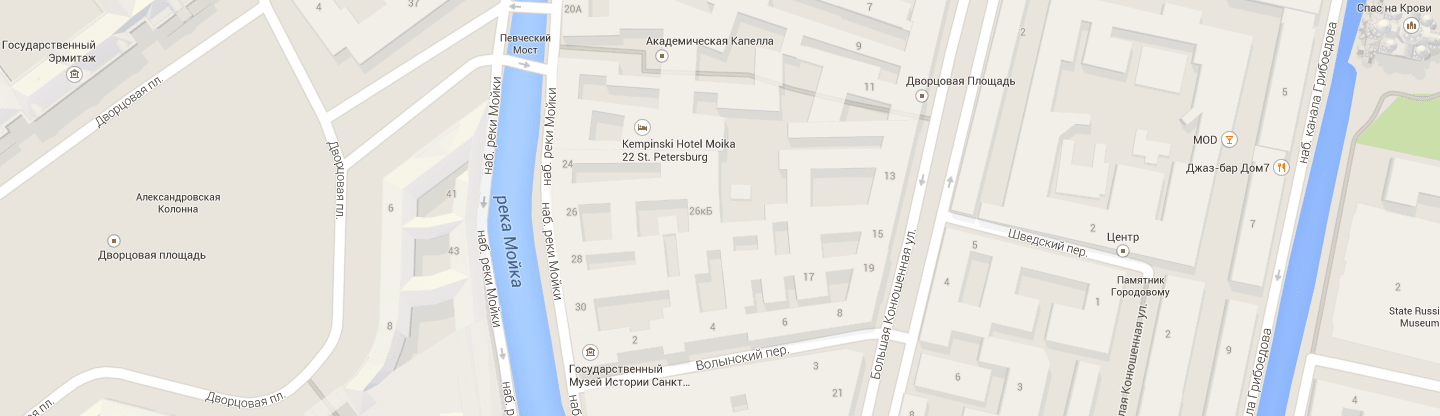
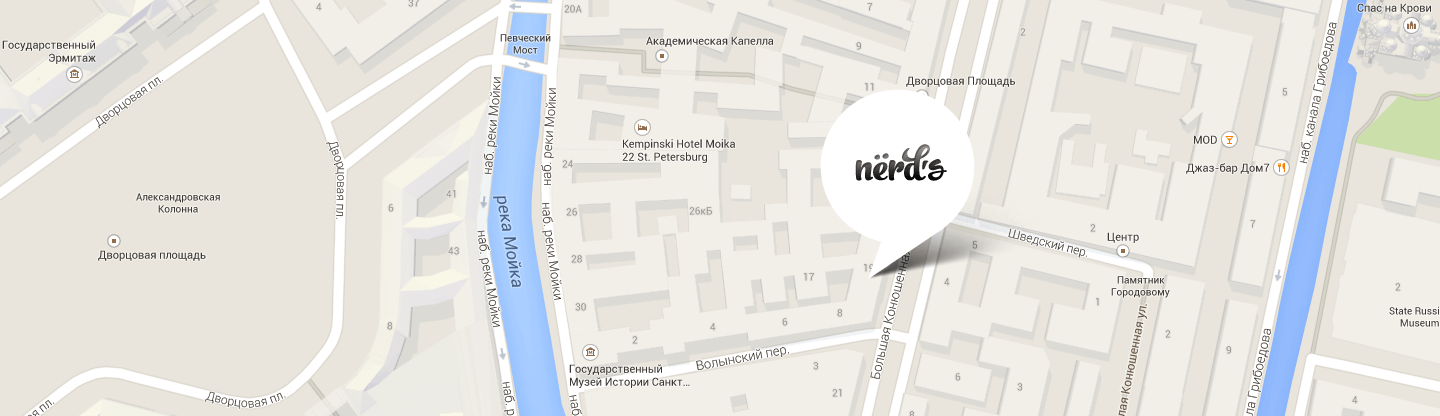
добавляет форму

Changed region(s): [[0.5625, 0.2188, 0.6875, 0.6562]]

diff --git a/css/style.css b/css/style.css
@@ -1172,24 +1172,22 @@ input[type="radio"].visually-hidden {
 
   height: 416px;
   overflow: hidden;
-
-  background: url("../img/map.png") no-repeat 50% 50%;
 }
 
-.contacts .container {
-  position: relative;
-}
-
-.map-marker {
+.map {
   position: absolute;
-  top: 90px;
-  right: 270px;
+  top: 0;
+  left: 50%;
+
+  width: 1440px;
+  height: 416px;
+
+  transform: translateX(-50%);
 }
 
 .contacts-card {
   position: absolute;
-  top: 0;
-  left: 20px;
+  bottom: 63px;
 
   max-width: 319px;
   margin-top: 55px;
@@ -1212,7 +1210,7 @@ input[type="radio"].visually-hidden {
 }
 
 .card-text {
-  padding-top: 5px;
+  padding-top: 4px;
   padding-right: 5px;
 
   line-height: 18px;
@@ -1314,27 +1312,27 @@ input[type="radio"].visually-hidden {
 /*modal*/
 .modal {
   position: fixed;
-  top: 50%;
+  top: 20px;
   left: 50%;
   z-index: 3;
 
   display: none;
   min-width: 960px;
   min-height: 590px;
+  margin-left: -480px;
+  padding-top: 53px;
+  padding-right: 100px;
+  padding-bottom: 84px;
+  padding-left: 99px;
 
   background-color: #ffffff;
   box-shadow: 0 20px 40px rgba(0, 1, 1, 0.75);
-  transform: translate(-50%, -50%);
 }
 
 .modal-form {
   display: flex;
   flex-direction: column;
   flex-wrap: wrap;
-  margin-top: 69px;
-  margin-right: 100px;
-  margin-bottom: 67px;
-  margin-left: 100px;
 }
 
 .modal-form legend {
@@ -1449,10 +1447,16 @@ input[type="radio"].visually-hidden {
   background-color: #d7373b;
 }
 
+.modal-show {
+  display: block;
+
+  animation: bounce 0.6s;
+}
+
 .modal-close {
   position: absolute;
-  top: 78px;
-  right: 90px;
+  top: 65px;
+  right: 95px;
 
   width: 21px;
   height: 21px;
@@ -1469,4 +1473,48 @@ input[type="radio"].visually-hidden {
 
 .modal-close:active {
   opacity: 0.1;
+}
+
+@keyframes bounce {
+  0% {
+    transform: translateY(-50%);
+  }
+
+  70% {
+    transform: translateY(30px);
+  }
+
+  90% {
+    transform: translateY(-10px);
+  }
+
+  100% {
+    transform: translateY(0);
+  }
+}
+
+@keyframes shake {
+  0%,
+  100% {
+    transform: translateX(0);
+  }
+
+  10%,
+  30%,
+  70%,
+  90% {
+    transform: translateX(-10px);
+  }
+
+  20%,
+  40%,
+  60%,
+  80% {
+    transform: translateX(10px);
+  }
+}
+
+.modal-error {
+  animation-name: shake;
+  animation-duration: 0.5s;
 }

diff --git a/catalog.html b/catalog.html
@@ -210,17 +210,17 @@
     <footer>
       <section class="contacts" id="contacts">
         <h2 class="visually-hidden">Контактная информация</h2>
-        <div class="container">
-          <img class="map-marker" src="img/map-marker.png" alt="Адрес дизайн-студии Нёрдс: город Санкт-Петербург, улица Большая Конюшенная, дом 19/8" width="231" height="190">
-          <div class="contacts-card">
-            <p class="card-title">Nёrds design studio</p>
-            <p class="card-text">191186, Санкт-Петербург, ул. Б. Конюшенная, д. 19/8</p>
-            <p class="card-text">тел.
-              <a class="tel" href="tel:+7(812)275-75-75">+7 (812) 275-75-75</a>
-            </p>
-            <button class="button contacts-button" type="button">Напишите нам</button>
+          <img class="map" src="img/map.png" alt="Адрес дизайн-студии Нёрдс: город Санкт-Петербург, улица Большая Конюшенная, дом 19/8" width="1440" height="416">
+          <div class="container">
+            <div class="contacts-card">
+              <p class="card-title">Nёrds design studio</p>
+              <p class="card-text">191186, Санкт-Петербург, ул. Б. Конюшенная, д. 19/8</p>
+              <p class="card-text">тел.
+                <a class="tel" href="tel:+7(812)275-75-75">+7 (812) 275-75-75</a>
+              </p>
+              <button class="button contacts-button" type="button">Напишите нам</button>
+            </div>
           </div>
-        </div>
       </section>
       <div class="container">
         <section class="socials">
@@ -272,5 +272,6 @@
         </fieldset>
       </form>
     </section>
+    <script src="js/script.js"></script>
   </body>
 </html>

diff --git a/index.html b/index.html
@@ -157,16 +157,16 @@
     <footer>
       <section class="contacts" id="contacts">
         <h2 class="visually-hidden">Контактная информация</h2>
+          <img class="map" src="img/map.png" alt="Адрес дизайн-студии Нёрдс: город Санкт-Петербург, улица Большая Конюшенная, дом 19/8" width="1440" height="416">
         <div class="container">
-          <img class="map-marker" src="img/map-marker.png" alt="Адрес дизайн-студии Нёрдс: город Санкт-Петербург, улица Большая Конюшенная, дом 19/8" width="231" height="190">
-        <div class="contacts-card">
-          <p class="card-title">Nёrds design studio</p>
-          <p class="card-text">191186, Санкт-Петербург, ул. Б. Конюшенная, д. 19/8</p>
-          <p class="card-text">тел.
-            <a class="tel" href="tel:+7(812)275-75-75"> +7 (812) 275-75-75</a>
-          </p>
-          <button class="button contacts-button" type="button">Напишите нам</button>
-        </div>
+          <div class="contacts-card">
+            <p class="card-title">Nёrds design studio</p>
+            <p class="card-text">191186, Санкт-Петербург, ул. Б. Конюшенная, д. 19/8</p>
+            <p class="card-text">тел.
+              <a class="tel" href="tel:+7(812)275-75-75"> +7 (812) 275-75-75</a>
+            </p>
+            <button class="button contacts-button" type="button">Напишите нам</button>
+          </div>
         </div>
       </section>
       <div class="container">
@@ -219,5 +219,6 @@
         </fieldset>
       </form>
     </section>
+    <script src="js/script.js"></script>
   </body>
 </html>

diff --git a/js/script.js b/js/script.js
@@ -1,0 +1,58 @@
+var link = document.querySelector(".contacts-button");
+var popup = document.querySelector(".modal");
+var close = document.querySelector(".modal-close");
+var form = popup.querySelector(".modal-form");
+var user = popup.querySelector("[name=name]");
+var email = popup.querySelector("[name=email]");
+var text = popup.querySelector("[name=text]");
+var storage = localStorage.getItem("user");
+var isStorageSupport = true;
+var storage = "";
+
+try {
+  storage = localStorage.getItem("user");
+} catch (err) {
+  isStorageSupport = false;
+}
+
+link.addEventListener("click", function(evt){
+  evt.preventDefault();
+  popup.classList.add("modal-show");
+
+  if (storage) {
+    user.value = storage;
+    email.focus();
+  } else {
+    user.focus();
+  }
+});
+
+close.addEventListener("click", function(evt){
+  evt.preventDefault();
+  popup.classList.remove("modal-show");
+  popup.classList.remove("modal-error");
+});
+
+form.addEventListener("submit", function(evt){
+  if (!user.value || !email.value || !text.value){
+  evt.preventDefault();
+  popup.classList.remove("modal-error");
+  popup.offsetWidth = popup.offsetWidth;
+  popup.classList.add("modal-error");
+} else {
+  if (isStorageSupport) {
+    localStorage.setItem("user", user.value);
+    localStorage.setItem("email", email.value);
+  }
+}
+});
+
+window.addEventListener("keydown", function(evt){
+  if (evt.keyCode === 27) {
+    if (popup.classList.contains("modal-show")) {
+      evt.preventDefault();
+      popup.classList.remove("modal-show");
+      popup.classList.remove("modal-error");
+    }
+  }
+});
